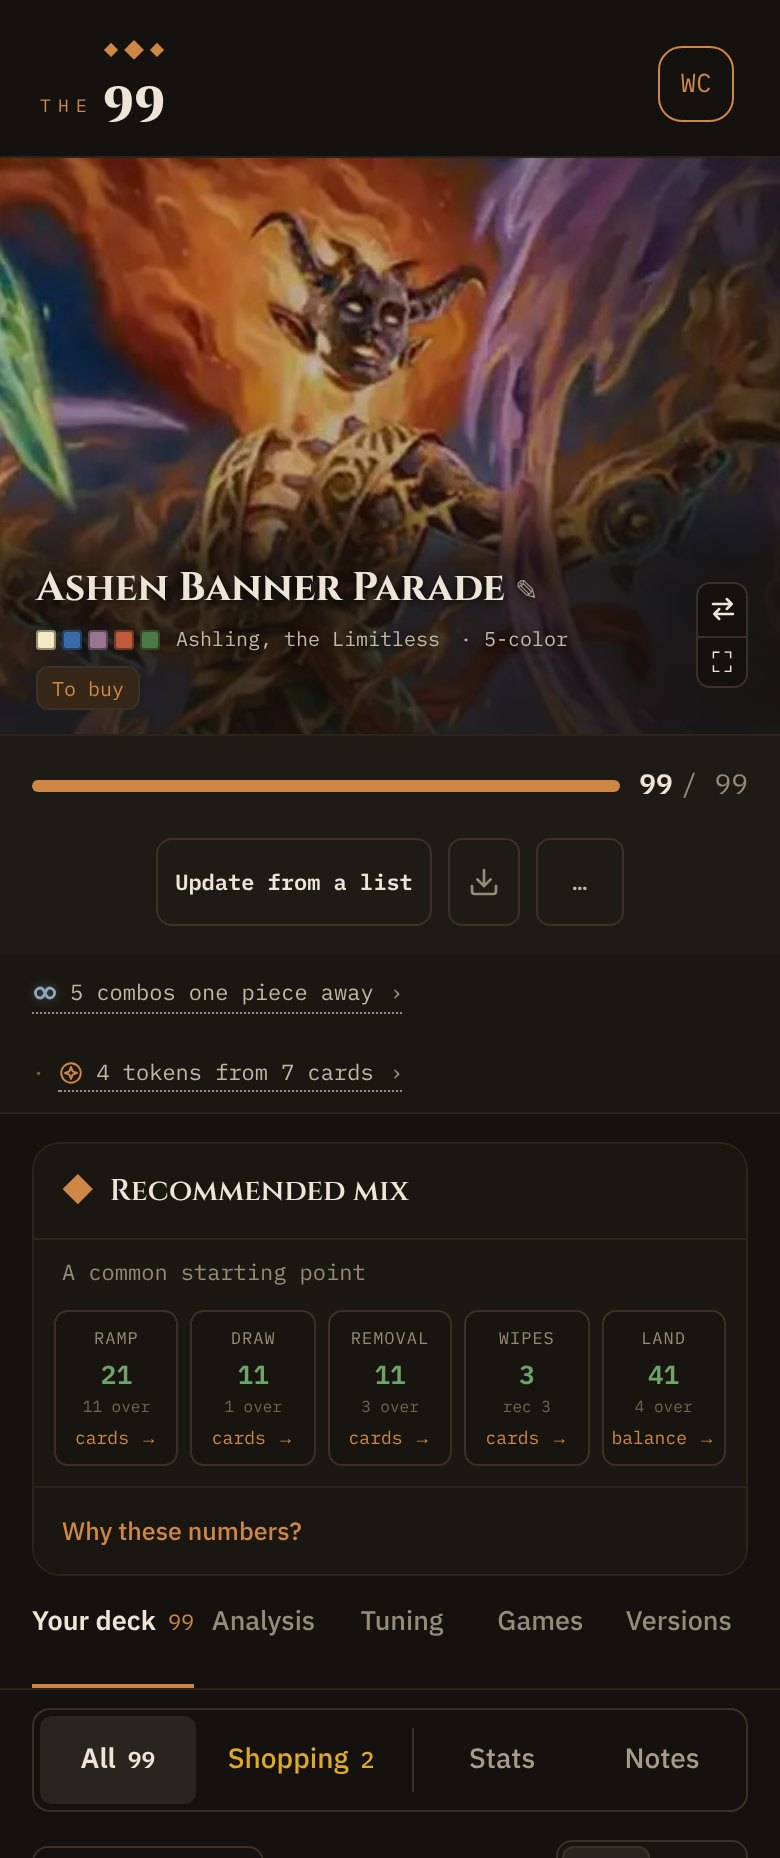
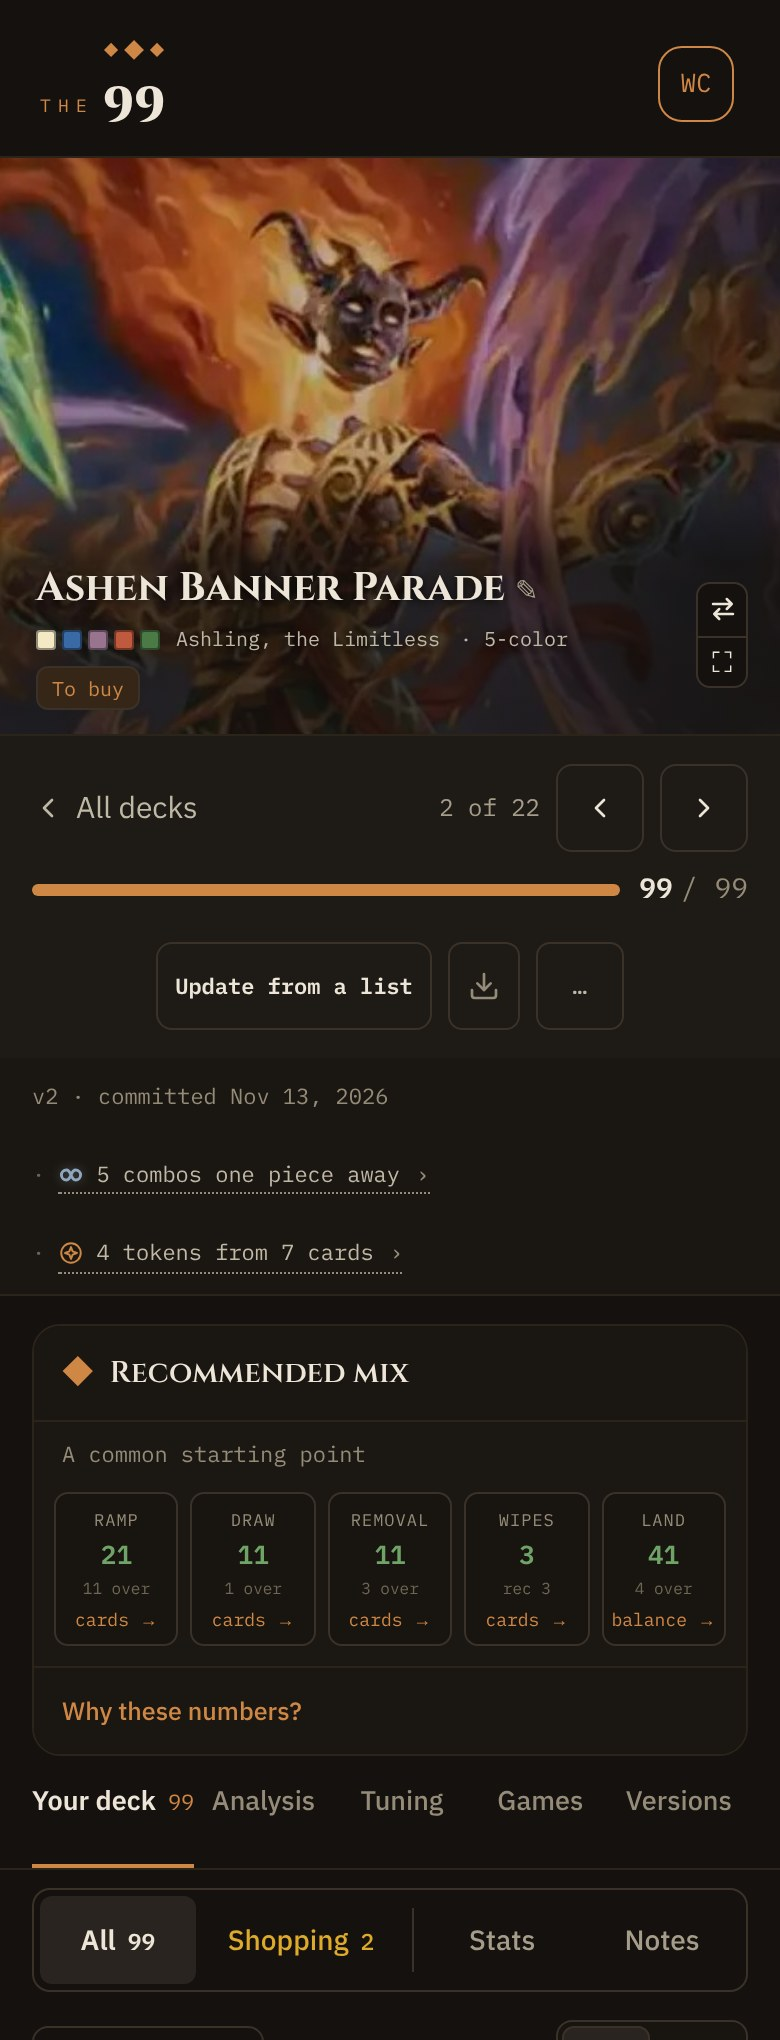
account-2 2026-11-27: Deck Tokens A redrawn with version line and flip row (R1b)
Hugh picked A. The status line now shows v2 · committed, combos and tokens together; the flip row (All decks, 2 of 22) is drawn.

Claude-Session: https://claude.ai/code/session_01UvpaAXG8JGZkkcLG51SVJp

diff --git a/account-2/design_handoff_the99_deck_tokens/project/A-StatusLine.dc.html b/account-2/design_handoff_the99_deck_tokens/project/A-StatusLine.dc.html
@@ -10,20 +10,20 @@
 <helmet><style>body{margin:0;background:#0f0d0a;font-family:system-ui,sans-serif;color:#EDE6D8}</style></helmet>
 <div style="width: 1830px; box-sizing: border-box; padding: 40px; background: #0f0d0a; display: flex; flex-direction: column">
 <p style="margin: 0 0 8px; font-size: 28px; font-weight: 600">A · “4 tokens from 7 cards ›” in the status line (recommended)</p>
-<p style="margin: 0 0 28px; font-size: 16px; line-height: 1.5; color: #C0B8A6; max-width: 1500px">A segment of the deck’s status line, after combos one piece away, drawn as that segment is (glyph, body ink, dotted rule, faint caret; 44px touch hit). The glyph is the Tokens strategy glyph in the accent ink. The press is the shipped landing (landOnDeckTokens): Your deck › All, scroll to the box, open it for this visit, focus its heading. It sits in the to-do card’s foot when the deck has a to-do, in the quiet strip otherwise (drawn here). No segment for a deck that makes no token.</p>
+<p style="margin: 0 0 28px; font-size: 16px; line-height: 1.5; color: #C0B8A6; max-width: 1500px">A segment of the deck’s status line, after combos one piece away, drawn as that segment is (glyph, body ink, dotted rule, faint caret; 44px touch hit). The glyph is the Tokens strategy glyph in the accent ink. The press is the shipped landing (landOnDeckTokens): Your deck › All, scroll to the box, open it for this visit, focus its heading. It sits in the to-do card’s foot when the deck has a to-do, in the quiet strip otherwise (drawn here, with the version and the deck flip row as they ship: v2 · committed · combos · tokens on one line on desktop; on phone each segment wraps whole onto its own line). No segment for a deck that makes no token.</p>
 <p style="margin: 0 0 12px; font: 600 15px ui-monospace, monospace; letter-spacing: .12em; color: #948B78">BEFORE · SHIPPED</p>
 <div style="display: flex; gap: 60px; align-items: flex-start; margin-bottom: 56px">
-<div style="display: flex; flex-direction: column; gap: 8px"><span style="font: 13px ui-monospace, monospace; color: #948B78">Desktop</span><img src="../art/A-before-desk.jpg" width="1300" height="710" alt="Shipped deck header and status line on desktop" style="display: block; border: 1px solid #2B241B"></div>
-<div style="display: flex; flex-direction: column; gap: 8px"><span style="font: 13px ui-monospace, monospace; color: #948B78">Phone</span><img src="../art/A-before-phone.jpg" width="390" height="889" alt="Shipped deck header and status line on phone" style="display: block; border: 1px solid #2B241B"></div>
+<div style="display: flex; flex-direction: column; gap: 8px"><span style="font: 13px ui-monospace, monospace; color: #948B78">Desktop</span><img src="../art/A-before-desk.jpg" width="1300" height="768" alt="Shipped deck header and status line on desktop" style="display: block; border: 1px solid #2B241B"></div>
+<div style="display: flex; flex-direction: column; gap: 8px"><span style="font: 13px ui-monospace, monospace; color: #948B78">Phone</span><img src="../art/A-before-phone.jpg" width="390" height="981" alt="Shipped deck header and status line on phone" style="display: block; border: 1px solid #2B241B"></div>
 </div>
-<p style="margin: 0 0 12px; font: 600 15px ui-monospace, monospace; letter-spacing: .12em; color: #CF8745">AFTER · R1</p>
+<p style="margin: 0 0 12px; font: 600 15px ui-monospace, monospace; letter-spacing: .12em; color: #CF8745">AFTER · R1b</p>
 <div style="display: flex; gap: 60px; align-items: flex-start">
-<div style="display: flex; flex-direction: column; gap: 8px"><span style="font: 13px ui-monospace, monospace; color: #948B78">Desktop</span><img src="../art/A-after-desk.jpg" width="1300" height="710" alt="Status line with tokens segment on desktop" style="display: block; border: 1px solid #2B241B"></div>
-<div style="display: flex; flex-direction: column; gap: 8px"><span style="font: 13px ui-monospace, monospace; color: #948B78">Phone · the segment wraps whole</span><img src="../art/A-after-phone.jpg" width="390" height="929" alt="Status line with tokens segment on phone" style="display: block; border: 1px solid #2B241B"></div>
+<div style="display: flex; flex-direction: column; gap: 8px"><span style="font: 13px ui-monospace, monospace; color: #948B78">Desktop</span><img src="../art/A-after-desk.jpg" width="1300" height="768" alt="Status line with tokens segment on desktop" style="display: block; border: 1px solid #2B241B"></div>
+<div style="display: flex; flex-direction: column; gap: 8px"><span style="font: 13px ui-monospace, monospace; color: #948B78">Phone · the segment wraps whole</span><img src="../art/A-after-phone.jpg" width="390" height="1020" alt="Status line with tokens segment on phone" style="display: block; border: 1px solid #2B241B"></div>
 </div>
 </div>
 </x-dc>
-<script type="text/x-dc" data-dc-script data-props='{"$preview":{"width":1830,"height":2160}}'>
+<script type="text/x-dc" data-dc-script data-props='{"$preview":{"width":1830,"height":2310}}'>
 class Component extends DCLogic {
 renderVals() { return {}; }
 }

diff --git a/account-2/design_handoff_the99_deck_tokens/scratch-gen/tok.tsx b/account-2/design_handoff_the99_deck_tokens/scratch-gen/tok.tsx
@@ -91,12 +91,15 @@ export const TOKENS: any = { status: "ok", read: true, makerCount: 7, newestPric
   tok("Goblin", "Token Creature — Goblin", ["R"], "1", "1", ["Smokebraider"], "owned", TP("t-goblin.jpg"), 15, "FRC", "9"),
 ] };
 
+const FLIP = Array.from({ length: 22 }, (_, i) => ({ id: i === 1 ? "d1" : "f" + i, name: i === 1 ? "Ashen Banner Parade" : i === 0 ? "Abzan Counters" : "Brew " + String.fromCharCode(65 + i), createdAt: Date.UTC(2026, 0, 1) - i * 1000, lastPlayedAt: Date.UTC(2026, 10, 20) - i * 1000, sortPosition: i }));
 const shell = (over: any = {}) => () => (
   <DeckTokensProvider deckId="d1" read={TOKENS}>
     <ChangeCommanderProvider deckId="d1" deckName="Ashen Banner Parade" pair={false} hasVersion>
     <SwapToolsProvider deckId="d1" deckName="Ashen Banner Parade" storedLimitCents={null}>
     <BuilderShell mix={recommendedMix(null, false)} deck={DECK} suggestions={[]} degraded={false} firstRun={false} commanderIdentity={commander.colorIdentity}
-      arrivedFromImport={false} newestAsOf={new Date("2026-11-26")} versions={[{ number: 1, committedAt: new Date("2026-10-12"), cardCount: 99 } as any]}
+      arrivedFromImport={false} newestAsOf={new Date("2026-11-26")} versions={[{ number: 2, committedAt: new Date("2026-11-13"), cardCount: 99 } as any, { number: 1, committedAt: new Date("2026-10-12"), cardCount: 99 } as any]}
+            draft={{ version: { id: "v2", number: 2, committedAt: new Date("2026-11-13T18:00:00Z"), note: null, commanderOracleId: "x", partnerOracleId: null, commanderSince: new Date("2026-10-12"), partnerSince: null }, adds: [], addChanges: [], removes: [], names: new Map(), costs: new Map(), prices: new Map(), pullFrom: new Map(), claimsKnown: true } as any}
+            flipDecks={FLIP}
       nearCombos={{ total: 5, combos: [] } as any} provenance={provenanceForm(new Date("2026-11-26T08:00:00Z"), new Date("2026-11-27T03:00:00Z"))} {...over} />
     </SwapToolsProvider>
     </ChangeCommanderProvider>

diff --git a/account-2/design_handoff_the99_deck_tokens/README.md b/account-2/design_handoff_the99_deck_tokens/README.md
@@ -16,7 +16,7 @@ Goblin FRC 9).
 - T2-Folded: folded, the band shows up to four token pictures fanned at card shape (26x36 desktop, 27x38 phone, -11px
   overlap, ±7° tilt) before the chevron. No pictures, no fan.
 - T3-Cards: the same box around the Card view tiles.
-- A-StatusLine (recommended): `◎ 4 tokens from 7 cards ›` segment in TodoFoot after combos; press = landOnDeckTokens.
+- A-StatusLine (PICKED by Hugh 2026-11-27; R1b redrawn with the version segment "v2 · committed Nov 13, 2026" and the deck flip row "‹ All decks · 2 of 22 ‹ ›" in place): `◎ 4 tokens from 7 cards ›` segment in TodoFoot after combos; press = landOnDeckTokens.
 - B-RowMarks: the token glyph as a row mark (after bracket facts, fact ink, folds by FoldedMarks), key entry "makes a token".
 - C-ToBuy: a foot band in PriceStrip: "N tokens these cards make aren't in your collection · Tokens ›" (tokens read as not
   owned and not joined; nothing before a collection read).
